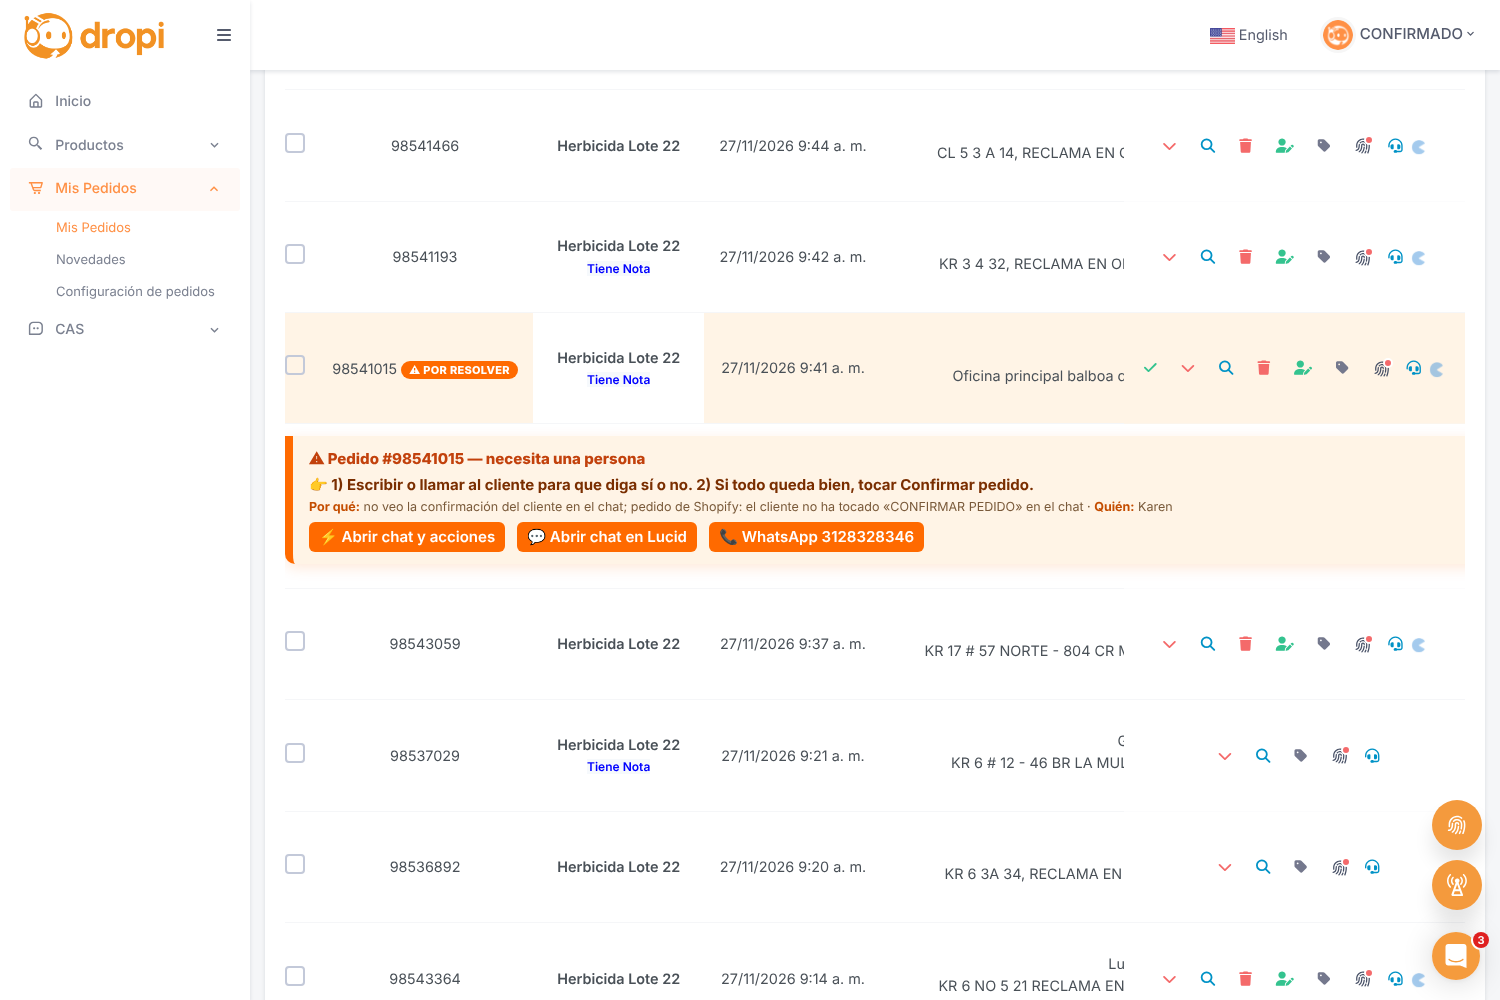
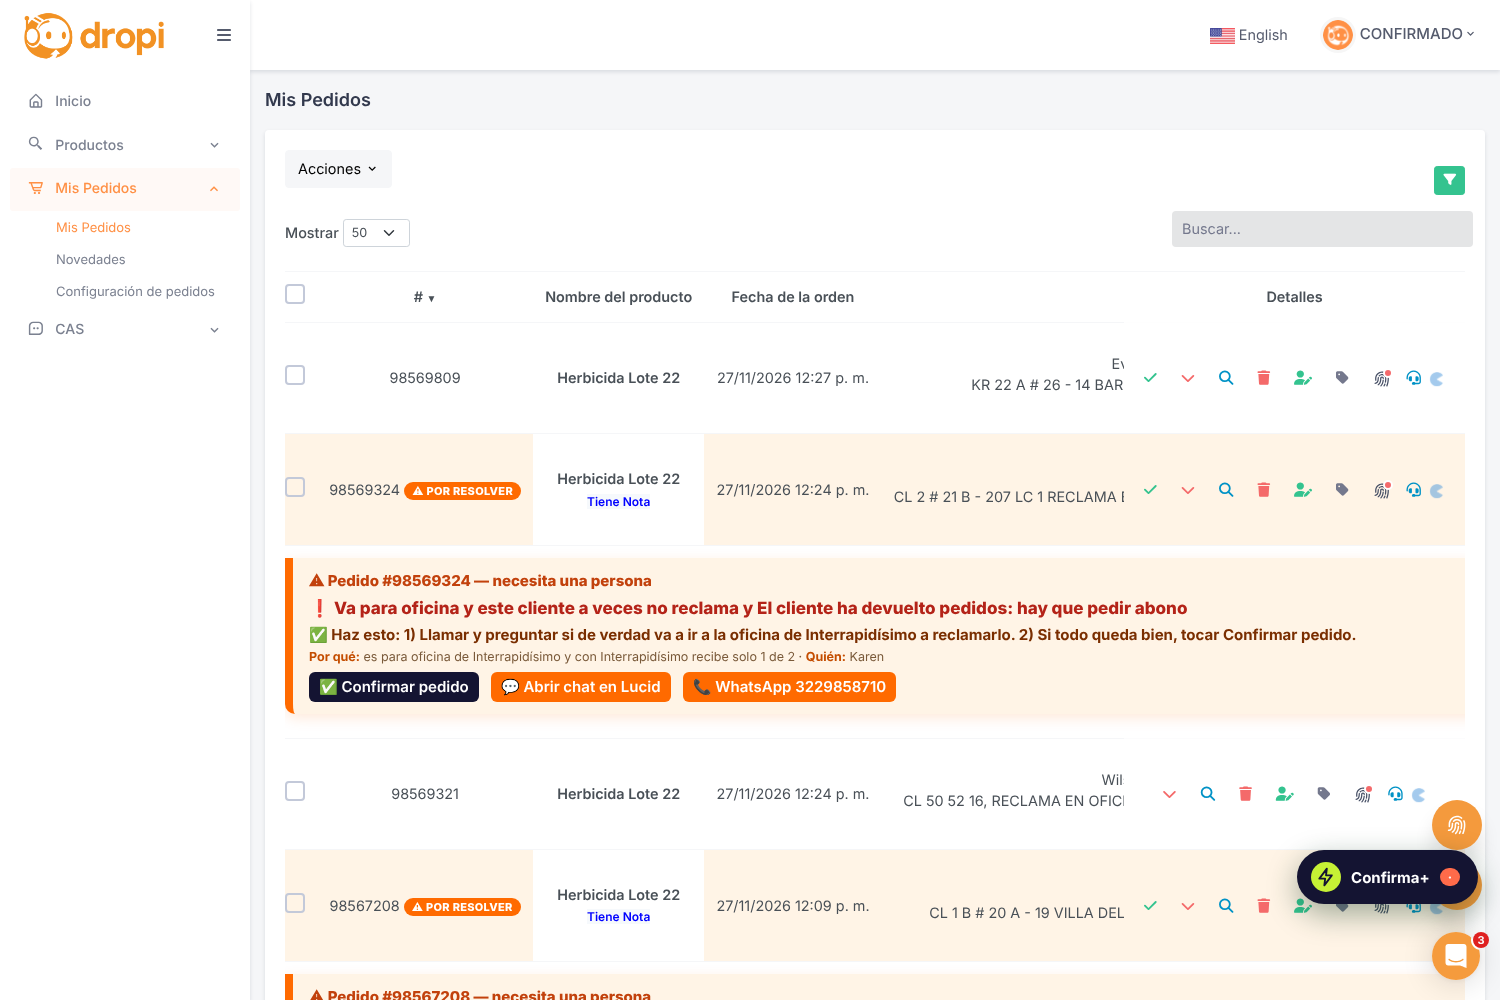
Confirma+ 4.4: confirmar y abrir chat en Lucid desde la lista de Dropi
Claude-Session: https://claude.ai/code/session_019w2oDTrzDqc8mTA8QA1NJr

diff --git a/toro-verde/extension-dropi/quehacer.js b/toro-verde/extension-dropi/quehacer.js
@@ -77,7 +77,7 @@
   }
   const parte = (t, k) => { const m = t.match(new RegExp(k + ':\\s*([^·|]+)')); return m ? m[1].trim() : ''; };
   const css = document.createElement('style');
-  css.textContent = `.tv-caja{text-align:left!important;margin:0 0 12px;padding:12px 16px;border-left:8px solid #ff6a00;background:#fff4e6;border-radius:0 0 10px 10px;font:15px/1.45 system-ui,sans-serif;color:#3b2200;box-shadow:0 4px 14px #ff6a0026}.tv-in{position:sticky;left:12px;max-width:min(1100px,calc(100vw - 340px))}.tv-pb{font-size:17px;font-weight:800;color:#b42318;margin:2px 0 4px}.tv-tit{font-weight:800;font-size:15px;color:#c2410c;text-transform:none;margin-bottom:4px}.tv-fila,.tv-fila>td{background:#fff4e6!important}.tv-fila>td:first-child{box-shadow:inset 8px 0 0 #ff6a00}.tv-marca{display:inline-block;margin-top:4px;background:#ff6a00;color:#fff;font:800 11px system-ui;padding:2px 8px;border-radius:999px;letter-spacing:.3px}
+  css.textContent = `.tv-caja{text-align:left!important;margin:0 0 12px;padding:12px 16px;border-left:8px solid #ff6a00;background:#fff4e6;border-radius:0 0 10px 10px;font:15px/1.45 system-ui,sans-serif;color:#3b2200;box-shadow:0 4px 14px #ff6a0026}.tv-in{position:sticky;left:12px;max-width:min(1100px,calc(100vw - 340px))}.tv-ok-l{background:#141432!important;color:#c6f135!important}.tv-hecho{opacity:.45;pointer-events:none}.tv-pb{font-size:17px;font-weight:800;color:#b42318;margin:2px 0 4px}.tv-tit{font-weight:800;font-size:15px;color:#c2410c;text-transform:none;margin-bottom:4px}.tv-fila,.tv-fila>td{background:#fff4e6!important}.tv-fila>td:first-child{box-shadow:inset 8px 0 0 #ff6a00}.tv-marca{display:inline-block;margin-top:4px;background:#ff6a00;color:#fff;font:800 11px system-ui;padding:2px 8px;border-radius:999px;letter-spacing:.3px}
   .tv-caja b{color:#c44d00}.tv-caja .tv-q{font-size:15px;font-weight:700;color:#7a2e00;margin-bottom:2px}.tv-caja .tv-chat{display:inline-block;margin:6px 8px 0 0;padding:4px 10px;background:#ff6a00;color:#fff!important;border-radius:6px;text-decoration:none;font-weight:600}.tv-caja .tv-p{font-size:12.5px;color:#7a5a3a}
   #tv-panel{position:fixed;top:70px;right:14px;z-index:99999;width:330px;max-height:70vh;overflow:auto;background:#1b1b1b;color:#fff;border-radius:12px;box-shadow:0 8px 28px #0006;font:13px/1.4 system-ui,sans-serif}
   #tv-panel h3{margin:0;padding:10px 14px;background:#ff6a00;border-radius:12px 12px 0 0;font-size:14px;cursor:pointer}
@@ -98,7 +98,7 @@
       fila.classList.add('tv-fila'); if (!c.querySelector('.tv-marca')) { const mk = document.createElement('div'); mk.className = 'tv-marca'; mk.textContent = '⚠ POR RESOLVER'; c.appendChild(mk); }
       const caja = document.createElement(fila.tagName === 'TR' ? 'tr' : 'div');
       const nombre = (fila.innerText.split('\n').map(x => x.trim()).find(x => /^[A-ZÁÉÍÓÚÑa-záéíóúñ][a-záéíóúñA-ZÁÉÍÓÚÑ.]+( [A-Za-zÁÉÍÓÚÑáéíóúñ.]+){1,4}$/.test(x) && !/herbicida|lote|tiene nota|reclama|oficina|pendiente|interrap|envia|coordinadora|bodega|recaudo/i.test(x)) || '');
-      const html = `<div class="tv-tit">⚠ Pedido #${id}${nombre ? ' · ' + nombre : ''} — necesita una persona</div>${parte(t, 'PROBLEMA') ? `<div class="tv-pb">❗ ${parte(t, 'PROBLEMA')}</div>` : ''}<div class="tv-q">✅ Haz esto: ${parte(t, 'QUÉ HACER') || 'Revisar el pedido'}</div><div class="tv-p"><b>Por qué:</b> ${parte(t, 'POR QUÉ')} · <b>Quién:</b> ${parte(t, 'QUIÉN') || 'Karen'}</div>` + `<a class="tv-chat tv-abrir" href="#" data-id="${id}">💬 Abrir chat</a> ` + (tels[id] ? ` <a class="tv-chat" href="https://wa.me/57${tels[id]}" target="_blank">📞 WhatsApp ${tels[id]}</a>` : '');
+      const html = `<div class="tv-tit">⚠ Pedido #${id}${nombre ? ' · ' + nombre : ''} — necesita una persona</div>${parte(t, 'PROBLEMA') ? `<div class="tv-pb">❗ ${parte(t, 'PROBLEMA')}</div>` : ''}<div class="tv-q">✅ Haz esto: ${parte(t, 'QUÉ HACER') || 'Revisar el pedido'}</div><div class="tv-p"><b>Por qué:</b> ${parte(t, 'POR QUÉ')} · <b>Quién:</b> ${parte(t, 'QUIÉN') || 'Karen'}</div>` + `<a class="tv-chat tv-ok-l" href="#" data-id="${id}">✅ Confirmar pedido</a> <a class="tv-chat tv-lucid" href="#" data-id="${id}">💬 Abrir chat en Lucid</a> ` + (tels[id] ? ` <a class="tv-chat" href="https://wa.me/57${tels[id]}" target="_blank">📞 WhatsApp ${tels[id]}</a>` : '');
       if (caja.tagName === 'TR') { const td = document.createElement('td'); td.colSpan = 30; td.innerHTML = `<div class="tv-caja"><div class="tv-in">${html}</div></div>`; caja.appendChild(td); }
       else { caja.className = 'tv-caja'; caja.innerHTML = html; }
       caja.id = 'tv-' + id; fila.after(caja);

diff --git a/toro-verde/extension-dropi/confirmador.js b/toro-verde/extension-dropi/confirmador.js
@@ -253,7 +253,7 @@
           ${nuevo ? `<button class="tv-pr" data-acc="precio" data-v="${nuevo.replace(/\./g, '')}">${IC.tag} Precio a $${nuevo}</button>` : ''}
           
           ${tel ? `<a class="tv-sec" target="_blank" href="https://wa.me/57${tel}${decir ? '?text=' + encodeURIComponent(decir) : ''}">${IC.send} ${decir ? 'Enviar mensaje' : 'WhatsApp'}</a>` : ''}
-          ${CFG.lucid && tel ? `<button class="tv-sec tv-vc" data-acc="verchat">${IC.chat} Abrir chat</button>` : ''}
+          ${CFG.lucid && tel ? `<button class="tv-sec tv-vc" data-acc="verchat">${IC.chat} Abrir chat</button><button class="tv-sec tv-lucid" data-id="${o.id}">${IC.send} Chat en Lucid</button>` : ''}
           ${CFG.lucid && tel && decir ? `<button class="tv-sec" data-acc="lucid" data-tel="${tel}" data-t="${encodeURIComponent(decir)}">${IC.send} Enviar por Lucid</button>` : ''}
           ${decir ? `<button class="tv-sec" data-acc="copiar" data-t="${encodeURIComponent(decir)}">${IC.copy} Copiar</button>` : ''}</div><div class="tvchat" data-chat="${o.id}"></div></div>`;
     }).join('');
@@ -346,6 +346,32 @@
     setInterval(() => { if (p.style.display === 'flex') cargar(); }, 5 * 60 * 1000);
     // Ronald 27-11: desde el recuadro naranja de cada pedido (aunque el panel esté cerrado) se abre directo ese pedido con su chat
     window.tvAbrir = async (id) => { p.style.display = 'flex'; filtro = 'Todos'; busca = String(id); p.querySelector('input').value = busca; abiertos.add(String(id)); await cargar(); };
+    // Ronald 27-11: desde el recuadro de la lista de Dropi: «Abrir chat en Lucid» abre directo el chat EXACTO de ese cliente en Lucid,
+    // y «Confirmar pedido» lo confirma en Dropi ahí mismo (por la API de Dropi, sin IA).
+    window.tvChatLucid = async (id) => {
+      if (!pedidos.length) await cargarSilencio();
+      let base = CFG.chatUrl || ''; if (!base) { try { base = localStorage.getItem('tv_lucid_url') || ''; } catch (e) {} }
+      if (!base && window.tvAprenderLucid) { if (!(await window.tvAprenderLucid())) return; try { base = localStorage.getItem('tv_lucid_url') || ''; } catch (e) {} }
+      if (!base) return;
+      const w = window.open('about:blank', '_blank');
+      const cid = CFG.lucid ? await contacto(String(id)) : null;
+      const o = pedidos.find(x => String(x.id) === String(id)) || {};
+      const destino = cid || (CFG.lucid ? null : (CFG.pais || '57') + String(o.phone || '').slice(-10));
+      if (!destino) { if (w) w.close(); toast('No encontré con certeza el chat de este pedido: búscalo a mano en Lucid'); return; }
+      if (w) w.location = base.replace('{tel}', destino); else window.open(base.replace('{tel}', destino), '_blank');
+    };
+    window.tvConfirmar = async (id, el) => {
+      if (!pedidos.length) await cargarSilencio();
+      const o = pedidos.find(x => String(x.id) === String(id));
+      if (!o) { toast('Este pedido ya no está pendiente de confirmar'); return; }
+      const res = `<b>${o.name || ''} ${o.surname || ''}</b> · #${id}<br>${plata(o.total_order)} · ${(o.city || '')} · ${(o.distribution_company || {}).name || ''}<br>${o.dir || ''}`;
+      if (!await modal('¿Confirmar este pedido en Dropi?', res + '<br><br>Revisa producto, precio y dirección antes de confirmar.', '✅ Sí, confirmar')) return;
+      const r = await api('PUT', '/orders/myorders/' + id, { status: 'PENDIENTE' });
+      if (r.s === 200) { await anotar(id, 'Confirmado'); toast(`Pedido #${id} confirmado en Dropi ✔`); pedidos = pedidos.filter(x => String(x.id) !== String(id)); pintar();
+        const caja = document.getElementById('tv-' + id); if (caja) caja.classList.add('tv-hecho'); if (el) el.textContent = '✔ Confirmado'; }
+      else toast(`Dropi no dejó confirmar (código ${r.s}). Hazlo desde Dropi.`);
+    };
+    document.addEventListener('click', (ev) => { const l = ev.target.closest && ev.target.closest('.tv-lucid, .tv-ok-l'); if (l) { ev.preventDefault(); ev.stopPropagation(); if (l.classList.contains('tv-lucid')) window.tvChatLucid(l.dataset.id); else window.tvConfirmar(l.dataset.id, l); } }, true);
     document.addEventListener('click', (ev) => { const a = ev.target.closest && ev.target.closest('.tv-abrir'); if (a) { ev.preventDefault(); ev.stopPropagation(); window.tvAbrir(a.dataset.id); } }, true);   // se actualiza solo cada 5 minutos
   }
   setInterval(montar, 1500);

diff --git a/toro-verde/robot-despacho/notas_revisar.py b/toro-verde/robot-despacho/notas_revisar.py
@@ -45,7 +45,9 @@ def problema(m):
     out = []
     for pat, txt in PROBLEMAS:
         if re.search(pat, m, re.I) and txt not in out: out.append(txt)
-    return ' y '.join(out[:2]) or 'Hay algo que revisar en el pedido'
+    if 'Va para oficina y este cliente a veces no reclama' in out and 'El cliente ha devuelto pedidos: hay que pedir abono' in out and not re.search(r'devuelve el|recibe solo el', m):
+        out.remove('El cliente ha devuelto pedidos: hay que pedir abono')   # «recibe solo 1 de 2» con Inter no es pedir abono
+    out = out[:2]; return (out[0] + (' y ' + out[1][0].lower() + out[1][1:] if len(out) > 1 else '')) if out else 'Hay algo que revisar en el pedido'
 def accion(m, nombre=''):
     n = (nombre or '').split(' ')[0].title()
     pasos, decir, quien, confirmar = [], '', 'Karen', True

diff --git a/toro-verde/ESTADO.md b/toro-verde/ESTADO.md
@@ -1010,3 +1010,4 @@ Carpeta Flujos / Recompra, 20 flujos, todos con Estado y Bandeja de Entrada ence
 - 27-11 5:20 p. m.: Confirma+ 4.1: ver y escribir chat dentro de Dropi (envía por Lucid), análisis real del chat (dijo sí / sin respuesta / dijo que no), solo pedidos de Lucid Bot, «Abrir chat y acciones» desde el recuadro naranja, ventana grande para conectar el enlace de Lucid. Cola de mejoras de tecnología en datos/innovaciones.md.
 - 27-11 5:35 p. m.: Confirma+ 4.2: fila del pedido con novedad resaltada en la lista de Dropi (etiqueta POR RESOLVER, recuadro con #pedido, qué hacer y botones, texto a la izquierda y fijo al hacer scroll); aviso de voz «Nuevo pedido por confirmar» cada vez que entra uno (revisa cada 3 min); quitado el panel negro viejo.
 - 27-11 5:45 p. m.: Confirma+ 4.3: «Abrir chat» dentro de Dropi con el contacto EXACTO del pedido (por Id_lucidsales; si no hay certeza, no abre); nota con PROBLEMA en frase sencilla + «Haz esto»; voz «Karen, nuevo pedido por confirmar». notas_revisar v3 con PROBLEMA. Análisis del chat real: 3 pedidos con cliente que ya dijo SÍ sin confirmar.
+- 27-11 6:30 p. m.: vuelta :19: hoy 78 pedidos, 52 por el robot; 2 subidos a Lucid. Confirma+ 4.4: en el recuadro de la lista de Dropi botones «Confirmar pedido» (confirma en Dropi por API, sin IA) y «Abrir chat en Lucid» (chat exacto del cliente); también «Chat en Lucid» en el panel. Problema de la nota más preciso.

diff --git a/toro-verde/extension-dropi/LEEME.md b/toro-verde/extension-dropi/LEEME.md
@@ -48,3 +48,7 @@ Dropi con esteroides para confirmar pedidos, **sin IA y sin salir de Dropi**.
 - **«Abrir chat»** abre el chat ahí mismo, dentro de Dropi (ya no lleva a Lucid). Busca el chat EXACTO del pedido por su número de pedido de Lucid; si no lo encuentra con certeza, no abre ninguno (para no escribirle a otra persona). Arriba del chat dice de quién es: nombre, teléfono y pedido.
 - Cada pedido dice primero **el problema** en una frase sencilla (en rojo) y después **«Haz esto»** paso a paso. El detalle técnico del robot queda escondido en «Ver detalle del robot».
 - La voz de aviso dice el nombre de quien atiende: «Karen, nuevo pedido por confirmar» (se pone en Configuración).
+
+## Versión 4.4
+- En el recuadro de cada pedido en la lista de Dropi: **✅ Confirmar pedido** (lo confirma en Dropi ahí mismo, con resumen antes) y **💬 Abrir chat en Lucid** (abre directo el chat EXACTO del cliente en Lucid). Sin IA.
+- La primera vez, «Abrir chat en Lucid» te pide pegar la dirección de un chat de Lucid (o ponla en Configuración).
